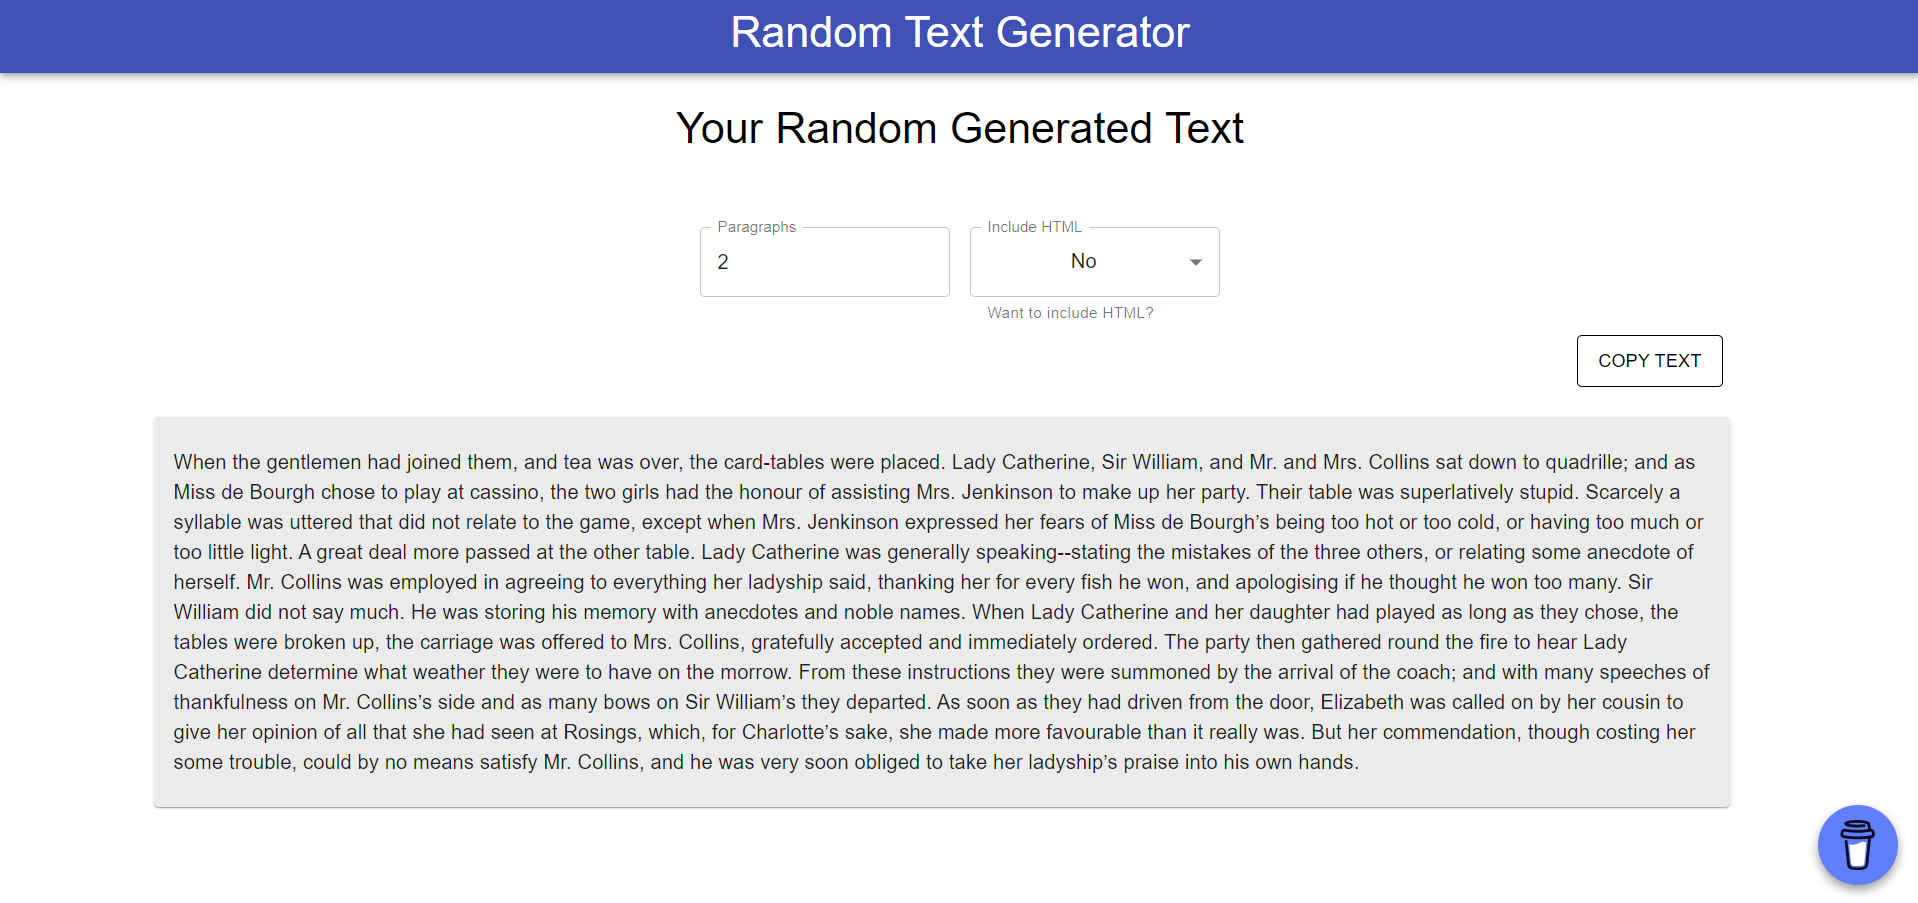
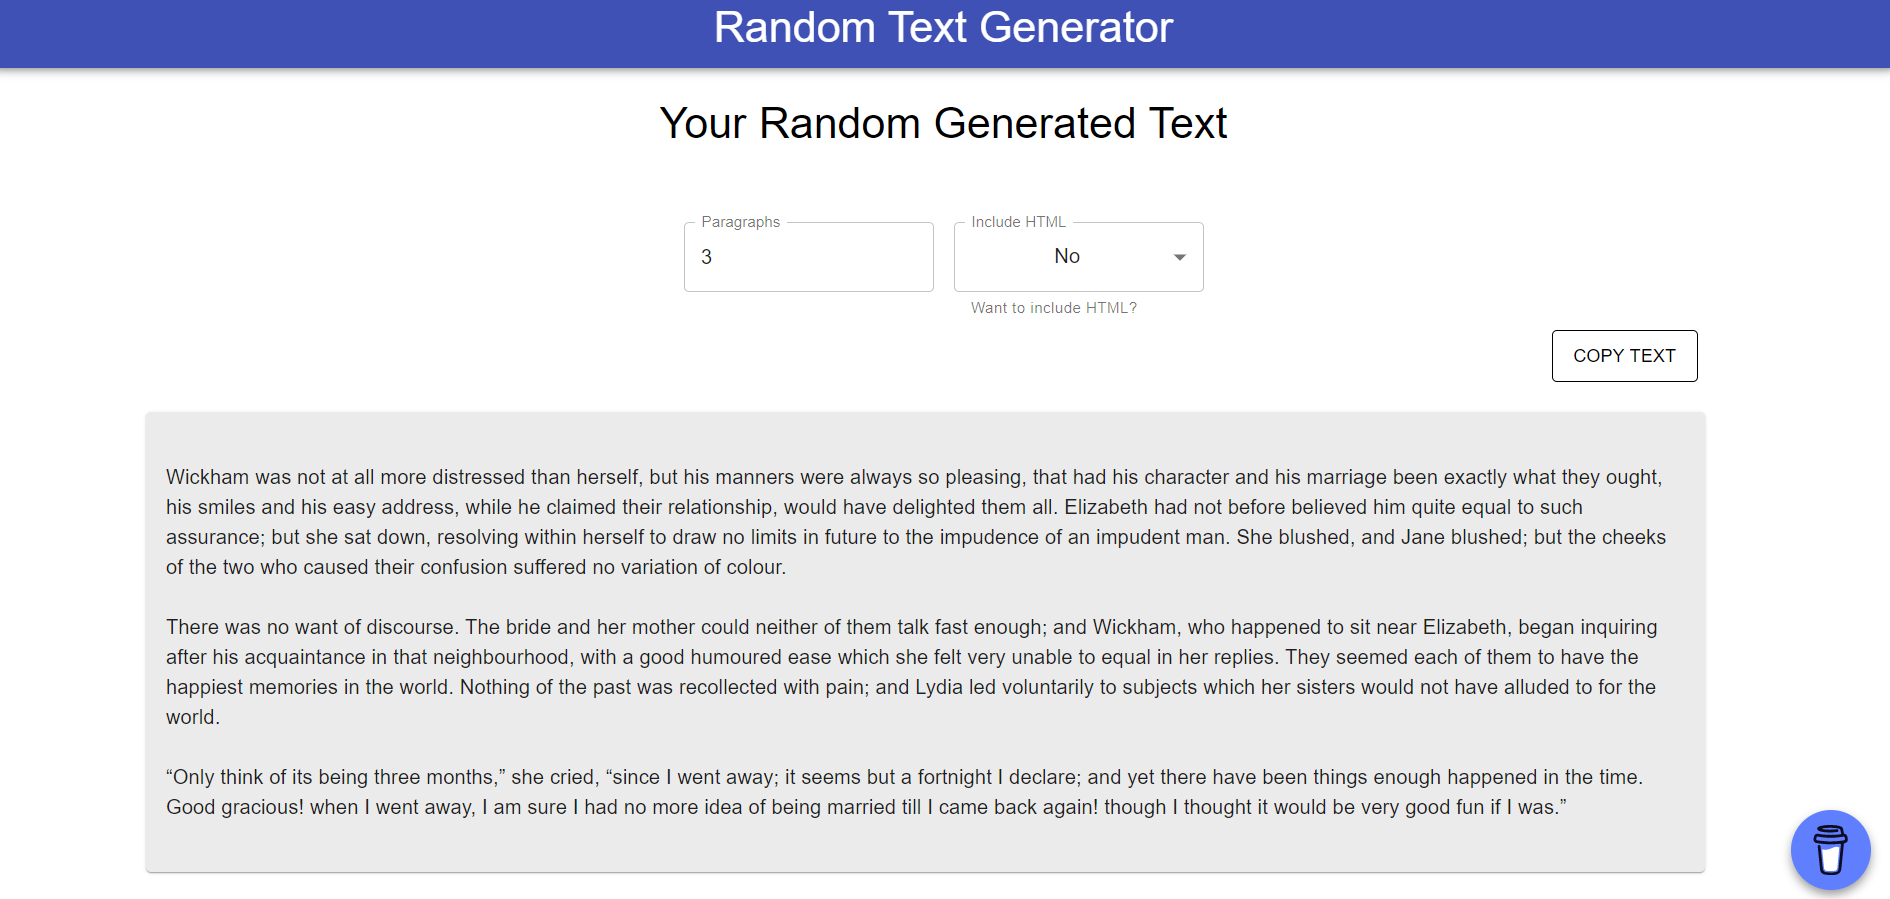
updated

diff --git a/src/components/Content.js b/src/components/Content.js
@@ -127,11 +127,13 @@ export default function Content() {
         const response = await axios.get(
           "https://litipsum.com/api/pride-and-prejudice/" + params + "/p"
         );
+
         setData(response.data);
       } else {
         const response = await axios.get(
           "https://litipsum.com/api/pride-and-prejudice/" + params
         );
+
         setData(response.data);
       }
     } catch (error) {
@@ -141,7 +143,6 @@ export default function Content() {
   useEffect(() => {
     getUser();
   }, [params, html]);
-  // getUser();
   return (
     <div>
       <Typography
@@ -209,7 +210,7 @@ export default function Content() {
       </Typography>
       <div>
         <Paper className={classes.root} square={false}>
-          <Typography component="p">{data}</Typography>
+          <Typography><pre>{data}</pre></Typography>
         </Paper>
       </div>
     </div>

diff --git a/src/index.css b/src/index.css
@@ -12,3 +12,13 @@ code {
   font-family: source-code-pro, Menlo, Monaco, Consolas, "Courier New",
     monospace;
 }
+
+pre {
+  font-size: 1rem !important;
+  font-family: "Roboto", "Helvetica", "Arial", sans-serif !important;
+  font-weight: 400 !important;
+  line-height: 1.5 !important;
+  letter-spacing: 0.00938em !important;
+  display: inline-block!important;
+  white-space: pre-wrap!important;
+}
